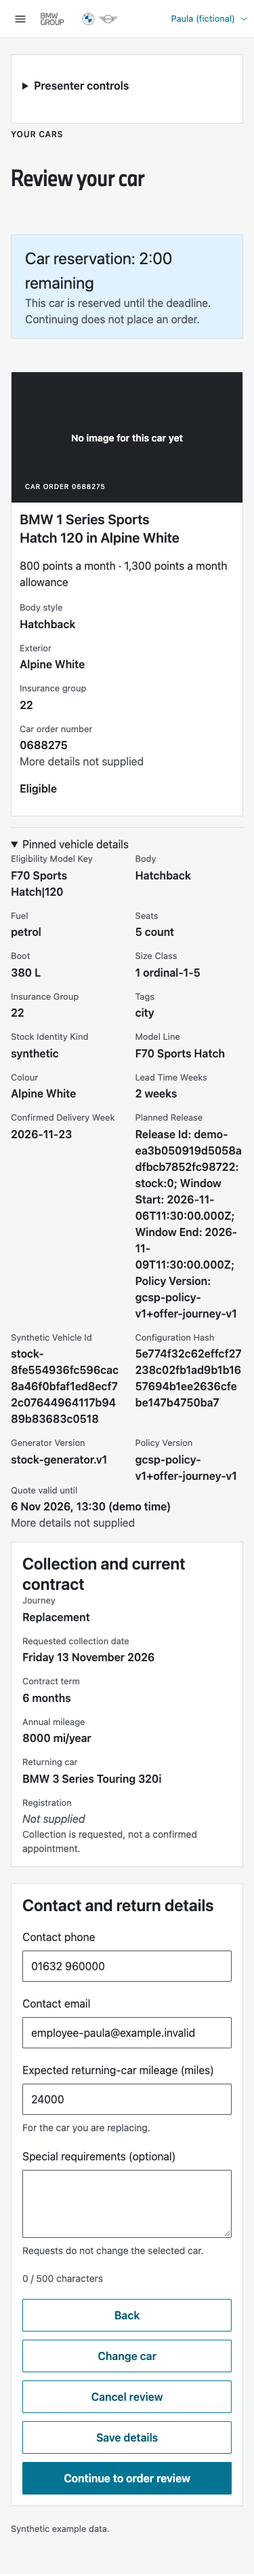
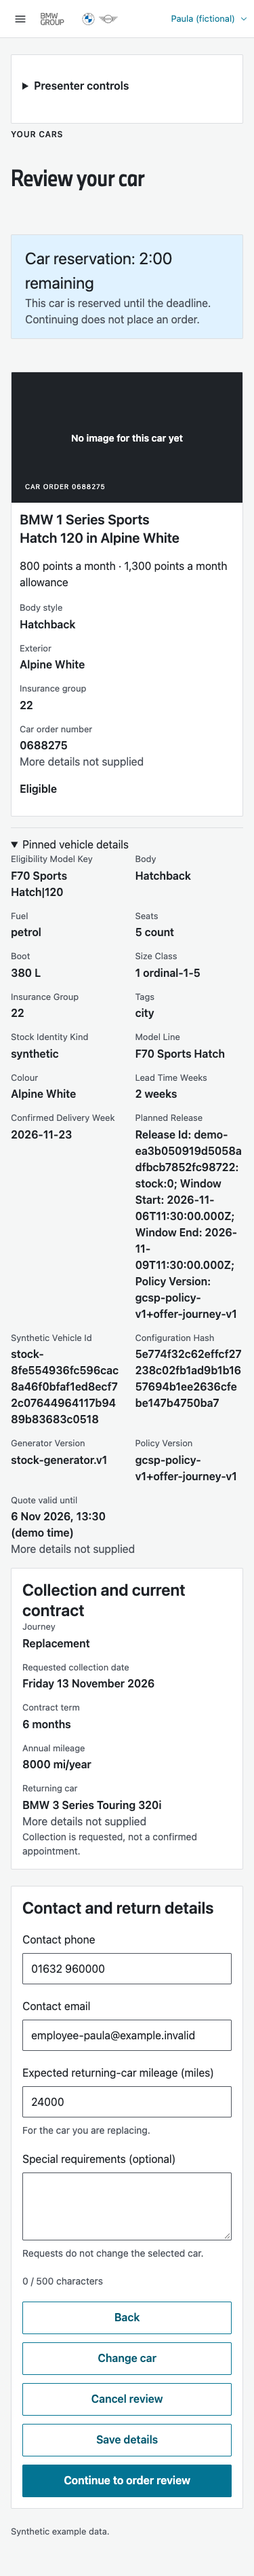
fix(gcsp): one missing-facts line in review pinned details and contract list (FUCQ-316)

diff --git a/blocks/gcsp/manual-review/gcsp-manual-review.js b/blocks/gcsp/manual-review/gcsp-manual-review.js
@@ -128,15 +128,14 @@ export function mountManualReviewBody(root, { adapter = createManualReviewHttpAd
     if (lastVehicle !== signature || !nodes.vehicle.childNodes.length) {
       lastVehicle = signature;
       const technical = el('details', 'gcsp-details'); technical.append(el('summary', '', 'Pinned vehicle details'),
-        rows(Object.entries(model.quote.facts?.facts ?? {}).map(([key, value]) => [label(key), ['body', 'bodyType'].includes(key) ? bodyFact(value) : value]), MORE_MISSING),
-        rows([['Quote valid until', Number.isFinite(Date.parse(model.quote.validUntil)) ? `${demoTime(model.quote.validUntil)} (demo time)` : model.quote.validUntil], ['Scheme contribution', model.quote.terms?.contribution]], MORE_MISSING));
+        rows(Object.entries(model.quote.facts?.facts ?? {}).map(([key, value]) => [label(key), ['body', 'bodyType'].includes(key) ? bodyFact(value) : value]).concat([['Quote valid until', Number.isFinite(Date.parse(model.quote.validUntil)) ? `${demoTime(model.quote.validUntil)} (demo time)` : model.quote.validUntil], ['Scheme contribution', model.quote.terms?.contribution]]), MORE_MISSING));
       nodes.vehicle.replaceChildren(
         matchCard(null, { view: reviewVehicleView(model), showScore: false, hideMissing: MORE_MISSING }), technical);
     }
     nodes.context.replaceChildren(el('h2', 'gcsp-h2', 'Collection and current contract'), rows([
       ['Journey', model.mode === 'replacement' ? 'Replacement' : 'New order'], ['Requested collection date', longDate(model.requestedCollection?.date) ?? model.requestedCollection?.date],
       ['Contract term', model.contract?.months, 'months'], ['Annual mileage', model.contract?.annualMileage, model.contract?.mileageUnit],
-      ...(model.mode === 'replacement' ? [['Returning car', model.currentContract?.model], ['Registration', model.currentContract?.registration]] : [])]),
+      ...(model.mode === 'replacement' ? [['Returning car', model.currentContract?.model], ['Registration', model.currentContract?.registration]] : [])], MORE_MISSING),
     el('p', 'gcsp-field-hint', 'Collection is requested, not a confirmed appointment.'));
     const errors = new Map((state.errors ?? []).map((entry) => [entry.field, entry.reason]));
     for (const [key, control] of Object.entries(controls)) {

diff --git a/server/test/gcsp-manual-review-render.test.js b/server/test/gcsp-manual-review-render.test.js
@@ -78,7 +78,8 @@ test('FUCQ-316: unknown pinned facts collapse into one line on the card and in t
   assert.equal(card.querySelectorAll('.vm-facts-more').length, 1); assert.equal(card.querySelector('.vm-facts-more').textContent, 'More details not supplied');
   assert.ok(![...pinned.querySelectorAll('dt')].some((node) => /Transmission/.test(node.textContent)));
   assert.ok([...pinned.querySelectorAll('dt')].some((node) => node.textContent === 'Model'));
-  assert.ok(pinned.querySelectorAll('.vm-facts-more').length >= 1);
+  assert.equal(pinned.querySelectorAll('.vm-facts-more').length, 1);
+  assert.doesNotMatch(f.root.textContent, /Not supplied/);
 });
 test('invalid Continue focuses linked summary, retains fields, and Cancel releases without validation', async (t) => {
   const f = setup(t); await settle(() => control(f, 'contact.phone'));
